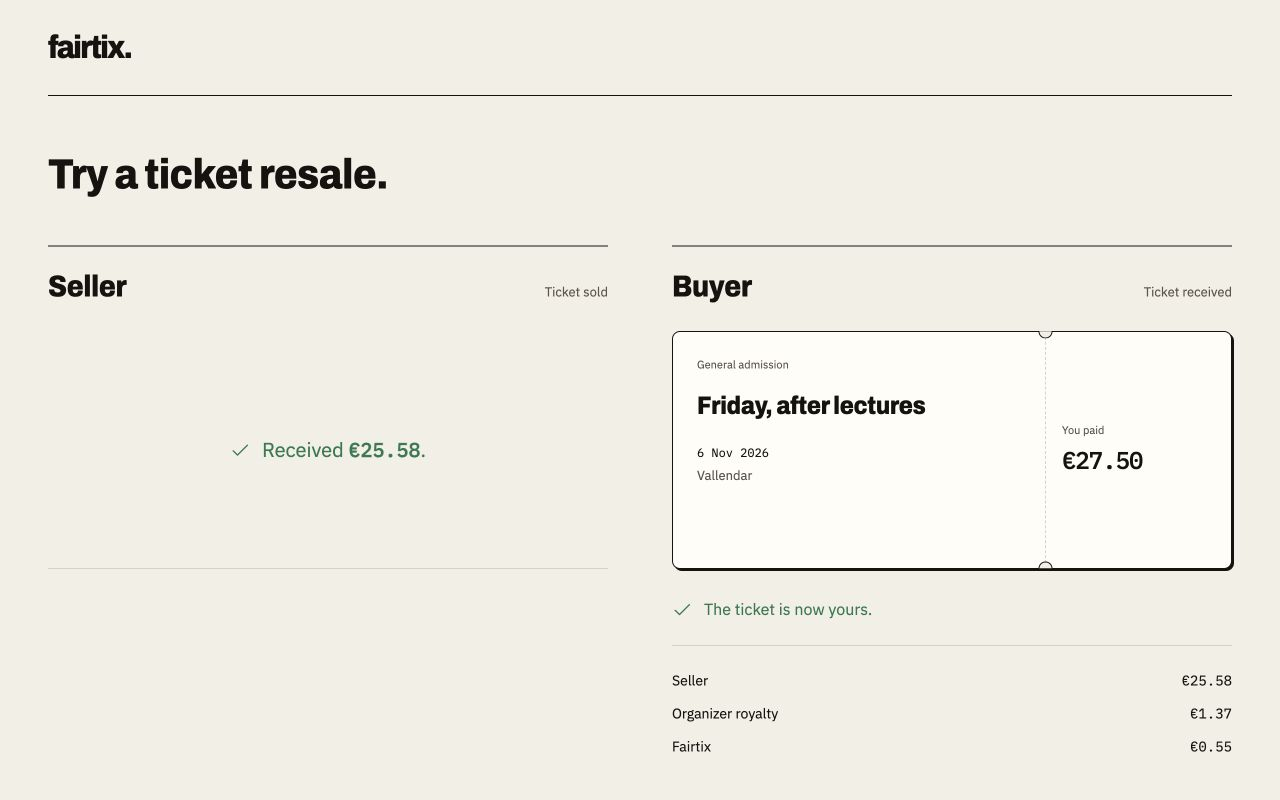
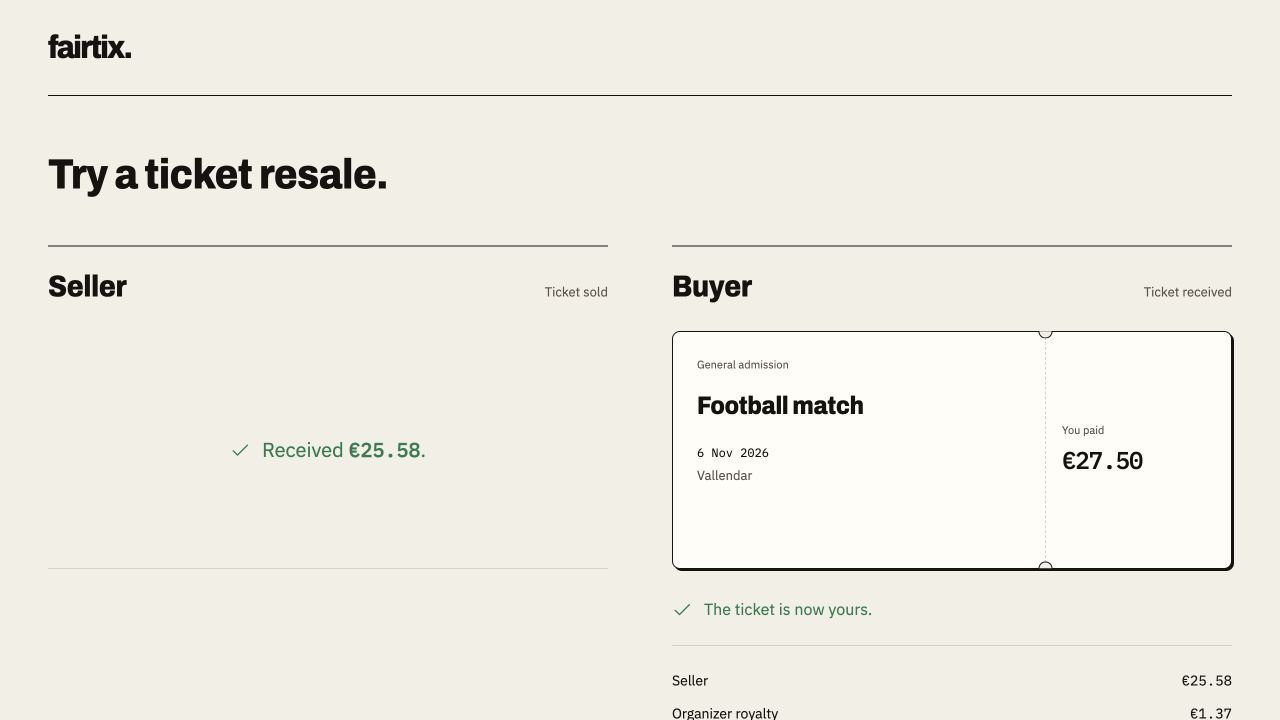
Verify landing page and football ticket resale

diff --git a/docs/browser-verification.md b/docs/browser-verification.md
@@ -30,10 +30,12 @@ The full local procedure was then executed with newly generated keys, Agave 4.3.
 
 An intermittent consumed-response error found during the clean run was corrected by draining each upstream RPC response once and returning a fresh response body to the Solana client.
 
-The current interface checks and public captures are recorded in [submission verification](submission-verification.json) and `docs/screenshots`. The centered home hero and demo were checked at 1280 × 800 and 390 × 844. Document width matched viewport width. The hero contains no ticket; the demo uses two columns on desktop and stacks seller above buyer on mobile. The obsolete account-selection guide and its captures have been removed. The clean-checkout and full chain procedures above were completed before the split-screen UI revision; they are retained as setup and program verification, rather than described as a new clean-install run.
+The current interface checks and public captures are recorded in [submission verification](submission-verification.json) and `docs/screenshots`. The home page follows Jet HR's composition, with condensed Mona Sans headings, an integrated header and a compact action panel. Home and demo were checked at widths of 1280 and 390 pixels. Document width matched viewport width. The hero contains no ticket; the demo uses two columns on desktop and stacks seller above buyer on mobile. The clean-checkout and full chain procedures above predate these interface revisions and remain setup and program verification.
+
+The example is now “Football match” in both the event account and mint metadata. A new public browser run rejected a €60 listing, listed at €27.50 and completed the resale. Event creation and all four demo transactions finalized. Independent token-balance checks confirmed the ownership change and payment split. The current event's receipts and metadata are recorded under `footballExample` in [the split demo report](split-demo-verification.json).
 
 ## Submission materials
 
-The final PDF has one canonical copy under `public/`. The editable PowerPoint lives in `docs/Fairtix-pitch.pptx`. Their verified byte hashes are in [the material verification report](devnet-materials-verification.json).
+Deck hashes and link checks are in [the material verification report](devnet-materials-verification.json).
 
-The eight-slide deck contains no invented organizer endorsement or pilot commitment. Native PowerPoint and Google Slides application behavior has not been tested. The PDF is public; the editable PowerPoint stays in the repository.
+The eight-slide deck contains no invented organizer endorsement or pilot commitment. Native PowerPoint and Google Slides application behavior has not been tested.
